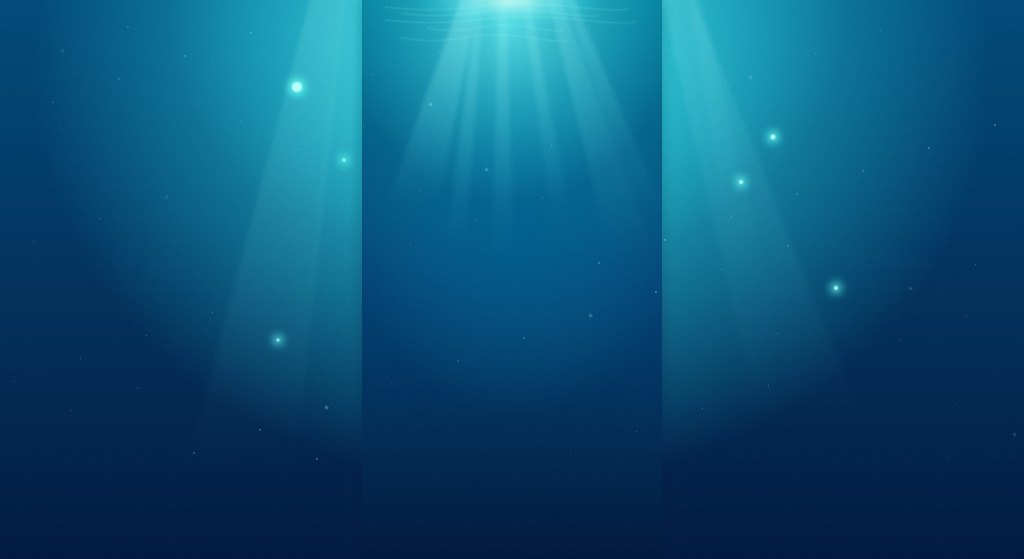
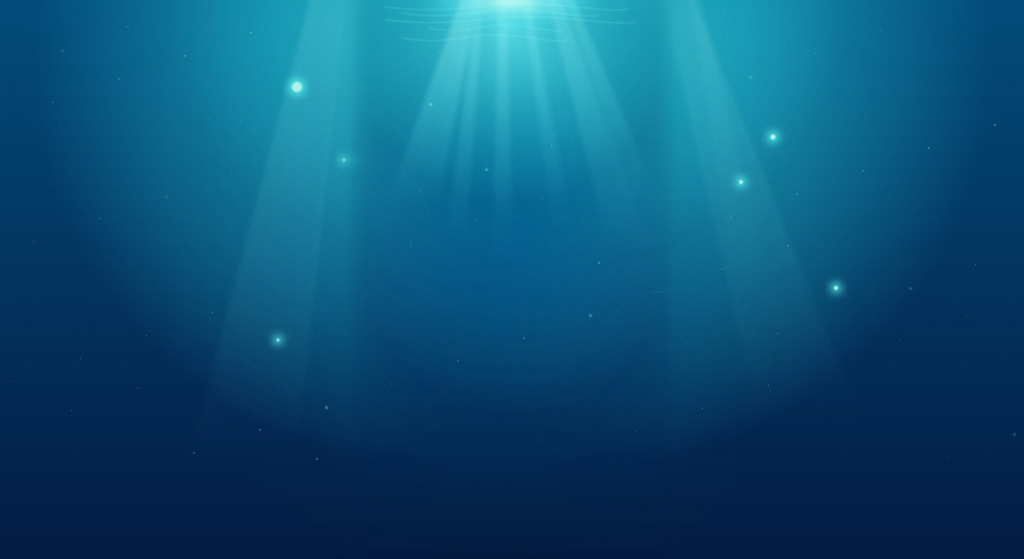
Add GO HOME to the Paused screen and blend the Start background seams
Claude-Session: https://claude.ai/code/session_01HKPtGj1gPfHt212Dkc4R3u

Changed region(s): [[0.3125, 0.0, 0.375, 0.3953], [0.625, 0.0, 0.6875, 0.3953]]

diff --git a/frontend/src/screens/PlayScreen.tsx b/frontend/src/screens/PlayScreen.tsx
@@ -17,6 +17,8 @@ interface Props {
   round: Pick<RoundStart, 'seed' | 'field_width' | 'field_height'>
   /** The round is over; called once, a moment after the time runs out. */
   onDone: (result: RoundResult) => void
+  /** Leave the round and go back to the start screen. Offered on the Paused screen. */
+  onGoHome: () => void
 }
 
 type Overlay = '3' | '2' | '1' | 'go' | 'paused' | 'time' | null
@@ -32,7 +34,7 @@ const TIME_UP_MS = 900
 const URGENT_SECONDS = 5
 
 /** The round on a canvas. The rules are in game/engine.ts and the drawing in game/render.ts. */
-export default function PlayScreen({ round, onDone }: Props) {
+export default function PlayScreen({ round, onDone, onGoHome }: Props) {
   const canvasRef = useRef<HTMLCanvasElement>(null)
   const hudRef = useRef<HTMLDivElement>(null)
   const scoreBoxRef = useRef<HTMLDivElement>(null)
@@ -274,9 +276,14 @@ export default function PlayScreen({ round, onDone }: Props) {
       {overlay === 'paused' ? (
         <div className="play-overlay play-overlay-dim" role="dialog" aria-label="Paused">
           <p className="play-word">Paused</p>
-          <PearlButton variant="cream" font="roboto" glow="strong" width={240} height={72} fontSize={28} onClick={() => resumeRound.current()}>
-            CONTINUE
-          </PearlButton>
+          <div className="pause-actions">
+            <PearlButton variant="cream" font="roboto" glow="strong" width={240} height={72} fontSize={28} onClick={() => resumeRound.current()}>
+              CONTINUE
+            </PearlButton>
+            <PearlButton variant="aqua" width={240} height={64} fontSize={28} onClick={onGoHome}>
+              GO HOME
+            </PearlButton>
+          </div>
         </div>
       ) : (
         overlay && (

diff --git a/frontend/src/screens/Game.tsx b/frontend/src/screens/Game.tsx
@@ -52,7 +52,14 @@ function Screens({ layout, viewport, data, flow }: ScreensProps) {
 
   if (screen.name === 'play') {
     const { round, practice } = screen
-    return <PlayScreen key={round.round_id} round={round} onDone={(result) => finish(round, result, practice)} />
+    return (
+      <PlayScreen
+        key={round.round_id}
+        round={round}
+        onDone={(result) => finish(round, result, practice)}
+        onGoHome={goHome}
+      />
+    )
   }
 
   if (screen.name === 'over') {

diff --git a/frontend/src/screens/Preview.tsx b/frontend/src/screens/Preview.tsx
@@ -71,6 +71,7 @@ function PreviewScreens({ params }: { params: URLSearchParams }) {
       <PlayScreen
         round={{ seed: toCount(params.get('seed'), 12345), field_width: field.width, field_height: field.height }}
         onDone={nothing}
+        onGoHome={nothing}
       />
     )
   }

diff --git a/frontend/src/ui/play.css b/frontend/src/ui/play.css
@@ -128,6 +128,13 @@
   pointer-events: none;
 }
 
+.pause-actions {
+  display: flex;
+  flex-direction: column;
+  align-items: center;
+  gap: 16px;
+}
+
 .play-overlay-dim {
   background: rgb(3 31 74 / 0.55);
   pointer-events: auto;

diff --git a/DECISIONS.md b/DECISIONS.md
@@ -966,6 +966,39 @@ way off the game over screen was another round.
   screen back. That rule is `settleScreen` in `state/flow.ts` and is tested.
 - The next round fetched ahead while the game over screen was showing is kept, so DIVE IN is still quick.
 
+## GO HOME while paused, and a start screen with no phone box
+
+### GO HOME on the Paused screen
+The Paused screen (from switching apps, or from opening the settings window during a round) now has GO HOME
+under CONTINUE, so a player can leave a round without finishing it. The two are stacked, not side by side,
+because the screen is the same on every window size and this keeps the main action (CONTINUE, cream, bigger)
+above the way out (GO HOME, blue).
+- Leaving a round throws it away: it is never sent, because a round that was not finished has no score.
+  There is no "are you sure?" question: the player has already stopped the game on purpose to reach the
+  button, and the cost of a wrong tap is one round of thirty seconds. If that turns out to annoy people, a
+  confirmation is a small change in `PlayScreen`.
+- It works the same for a practice round.
+- The next round fetched ahead is kept, so DIVE IN is still quick afterwards.
+
+### The start screen picture
+On a wide window the start screen showed a darker column in the middle with hard vertical edges, like a
+phone drawn on the desktop. That was in the picture itself (`bg-landscape-start.jpg`, from the design's
+desktop start frame), not in the code: the column and the two side panels were three separate pictures
+placed side by side. I rebuilt the picture so they melt into each other:
+- At each of the two seams, the colour jump between the pictures is measured row by row, half of it is
+  taken out of each side, and the correction fades out over about 150 pixels, so the colours meet without a
+  step. A narrow horizontal blur around the seam then softens the last edge, where a light beam had been cut
+  off at the old boundary.
+- Measured: the difference between the two columns of pixels either side of each seam went from about 23
+  to about 0.4 (the picture's normal texture is 0.37), so no edge is left to see.
+- Same size and same file name, so no code changed. The original is in git history and the Figma frame is
+  unchanged (`6:2688`).
+- I left the game over picture alone. It has a much fainter version of the same edge at the top, but fixing
+  it softened the outline of the shell where the seam crosses it, which was worse than the faint edge.
+- On a very wide window (wider than about 2.3 to 1) the stage picture fades into a blurred copy of itself on
+  both sides, which can still show as a slightly darker band. That is the existing behaviour for odd window
+  shapes and is not new.
+
 ## Known limits and what I would do with more time
 
 - **Perfect-replay bots.** A bot that knows the seed and taps every bubble at plausible human

diff --git a/frontend/src/assets/art/README.md b/frontend/src/assets/art/README.md
@@ -5,7 +5,7 @@ Images the screens use. Bitmaps are small JPEG/WebP; the characters and icons ar
 | File | What | Figma node |
 | --- | --- | --- |
 | `bg-portrait.jpg` | Underwater background, phone | `37:4372` (M01 Start screen) |
-| `bg-landscape-start.jpg` | Underwater background with centre column, desktop start | `6:2688` (D01) |
+| `bg-landscape-start.jpg` | Underwater background, desktop start (the centre column's edges are blended away, see DECISIONS.md) | `6:2688` (D01) |
 | `bg-landscape-over.jpg` | Desktop game over background, includes the big shell | `19:287` (D03) |
 | `shell-portrait.webp` | Pearlescent shell behind the phone game over panel | `39:178` (M03) |
 | `turtle-start.svg` | Sea turtle on the start screen | `37:4544` |
